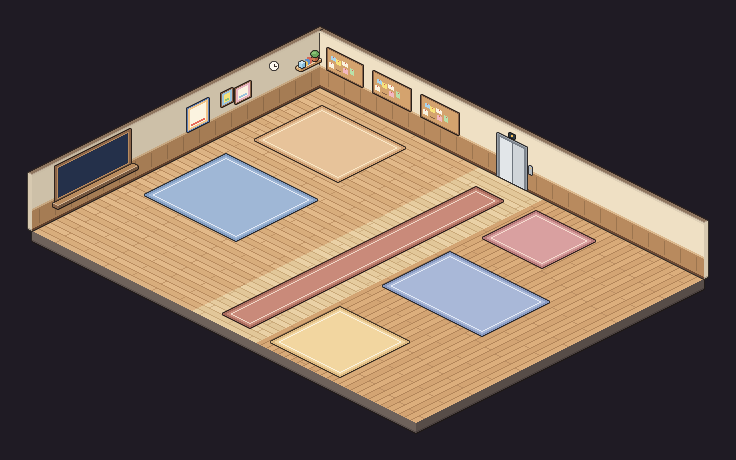
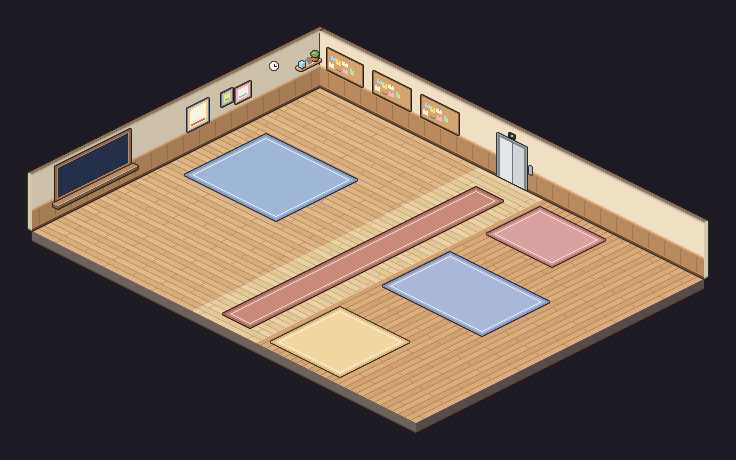
Casa: escritório no lado esquerdo e Claude FM na sala de mídias
- O lado esquerdo vira o Escritório: quadros, mesas dos agentes (mais ao centro),
  sua mesa, arquivos, impressora e canto do café; sai a sala de estar.
- A Claude FM vai para o canto de leitura da sala de mídias, com o sofá rosa de frente.
- A mesa da Escrita vai para trás, alinhada à beirada esquerda da última estante.

Changed region(s): [[0.3125, 0.213, 0.5625, 0.4565], [0.1875, 0.3652, 0.375, 0.5478], [0.6562, 0.4261, 0.8438, 0.5783]]

diff --git a/test/casa2d.test.ts b/test/casa2d.test.ts
@@ -5,7 +5,7 @@ import { homeSpot } from '../src/renderer/src/game/home-seats'
 import { casaPlan, zoneAt, type CasaAct, type CasaLayout } from '../src/renderer/src/world2d/casa'
 import { depthSort } from '../src/renderer/src/world2d/depth'
 import { actAt } from '../src/renderer/src/world2d/hit'
-import { artToScreen, headingOf } from '../src/renderer/src/world2d/iso'
+import { artToScreen } from '../src/renderer/src/world2d/iso'
 import { grid2d } from '../src/renderer/src/world2d/layout'
 import { recolour, recolourMap, type Palette } from '../src/renderer/src/world2d/skins'
 import { LUNA_VARIANT } from '../src/renderer/src/world2d/sprites'
@@ -143,9 +143,9 @@ describe('plano da Casa 2D', () => {
     expect(new Set(spots.map((s) => `${s.point.x},${s.point.z}`)).size).toBe(3)
     // the residents fill the desks in order after Luna's
     expect(spots.map((s) => s.tile)).toEqual([
+      [6, 6],
+      [3, 8],
       [6, 8],
-      [3, 10],
-      [6, 10],
     ])
     // the same seat number always gives the same chair
     expect(homeSpot(grid, 2, plan)).toEqual(spots[2])
@@ -198,7 +198,7 @@ describe('clique na Casa 2D', () => {
   it('o chão vazio e os móveis sem ação não abrem nada', () => {
     const floor = artToScreen(CASA.origin, 340, 200)
     expect(actAt(items, CASA.hot, floor, solid)).toBeNull()
-    const sofa = CASA.static.find((s) => s.fp[0] === 62 && s.fp[1] === 28)!
+    const sofa = CASA.static.find((s) => s.fp[0] === 262 && s.fp[1] === 10)!
     expect(actAt(items, CASA.hot, { x: sofa.x + 10, y: sofa.y + 10 }, solid)).toBeNull()
   })
 

diff --git a/scripts/pixel-art/scene_casa2.py b/scripts/pixel-art/scene_casa2.py
@@ -25,13 +25,13 @@ BOARDS = [(8, 42, 'agenda', 'Agenda'), (54, 90, 'goals', 'Objetivos'), (102, 138
 # the four work desks (x, y; each 14 x 30, the sitter east of it looking -x); Luna takes the first,
 # then the residents fill them in order
 DESK_D = 30
-DESKS = [(30, 124), (76, 124), (30, 160), (76, 160)]
+DESKS = [(30, 84), (76, 84), (30, 120), (76, 120)]
 # the chair of each desk: x, y, the way the sitter looks
 TABLE_SEATS = [(x + 16, y + 10, '-x') for x, y in DESKS]
 # the rug under the desks: x0, y0, x1, y1
-DESK_RUG = (20, 114, 112, 196)
+DESK_RUG = (20, 74, 112, 156)
 # the bounding box of the desks (x, y, w, d): its middle is where the group looks at
-TABLE = (30, 124, 82, 66)
+TABLE = (30, 84, 82, 66)
 # who sits where in the preview (variant, or None for an empty chair)
 TABLE_PEOPLE = [6, 1, 2, None]
 SEAT_ORDER = [0, 1, 2, 3]
@@ -39,31 +39,35 @@ SEAT_ORDER = [0, 1, 2, 3]
 VOCE_DESK = (70, 266, 36)
 # footprints of the clickable furniture (export_app.py tags the items with these)
 SKULL = (146, 20, 154, 28)
-RADIO = (2, 30, 14, 64)
+# Claude FM: in the media room's reading corner, against the half wall, the pink sofa facing it
+RADIO = (228, 12, 240, 46)
+READ_SOFA = (262, 10, 276, 50)
 # the 'Rotinas de agentes' board hangs on the west wall of Luna's table room (plane x=0): y0, y1, z0, z1, clear of the window
 TOTEM_WALL = (168, 184, 26, 42)
 TOTEM = (0, 168, 2, 184)
 # the window on the west wall by the user's corner: y0, y1, z0, z1 (the glass is drawn by the app: morning, day, evening, night)
 WINDOW = (192, 262, 20, 50)
-WRITING = (306, 14, 322, 50)
+# the writing desk: in front of the last bookshelf, its west edge on the shelf's
+WRITING = (352, 10, 368, 46)
 FILMS_TV = (228, 120, 238, 146)
 ARCADES = [(228, 216, 238, 228), (228, 232, 238, 244), (228, 248, 238, 260)]
 SHELVES = [(x, 0, x + 28, 8) for x in range(232, 380, 30)]
 # where idle agents of the Casa sit or play: x, y (art units), the point they look at, kind
 HANG = [
-    (69, 38, (8, 40), 'sit'), (69, 58, (8, 50), 'sit'),           # sofa of the sala de estar
+    (269, 20, (234, 29), 'sit'), (269, 40, (234, 29), 'sit'),      # reading sofa, facing the Claude FM
     (299, 124, (233, 133), 'sit'), (299, 144, (233, 133), 'sit'),  # Filmes sofa, facing the TV
     (246, 222, (233, 222), 'play'), (246, 238, (233, 238), 'play'), (246, 254, (233, 254), 'play'),  # arcades
-    (258, 238, (233, 238), 'stand'), (284, 40, (244, 36), 'stand'),
+    (258, 238, (233, 238), 'stand'), (250, 56, (234, 29), 'stand'),
+    (26, 150, (9, 149), 'stand'),                                  # coffee corner of the office
 ]
 # names shown when the pointer is over a part of the floor (tiles: x0, y0, x1, y1)
 ZONES = [
-    ('Mesa da Luna', (0, 6, 10, 13)),
-    ('Sala de estar', (0, 0, 10, 6)),
+    ('Mesa da Luna', (0, 4, 10, 10)),
     ('Sua mesa', (0, 13, 10, 18)),
+    ('Escritório', (0, 0, 10, 18)),
     ('Entrada', (10, 0, 14, 18)),
-    ('Livros', (14, 0, 19, 5)),
-    ('Escrita', (19, 0, 24, 5)),
+    ('Livros', (14, 0, 21, 5)),
+    ('Escrita', (21, 0, 24, 5)),
     ('Filmes', (14, 5, 24, 12)),
     ('Jogos', (14, 12, 24, 18)),
 ]
@@ -101,8 +105,7 @@ def shell(L):
     F.rug(L, 178, 22, 206, 276, H('c98a7a'), H('a86a5c'), H('f1d8c8'))
     for a_, b_, _act, _n in BOARDS:
         board(L, a_, b_)
-    F.rug(L, 20, 18, 104, 86, H('e7c39a'), H('cf9f72'), H('fbe9c8'))
-    # wall decor (west wall of the sala de estar)
+    # wall decor (west wall of the office)
     G.wall_shelf_x(L, 0, 4, 24, 30)
     window_frame(L)
     G.clock_x(L, 0, 46, 44)
@@ -110,7 +113,7 @@ def shell(L):
     F.frame_x(L, 0, 88, 98, 30, 42, art=('9cc4dc', 'f6e27a', '8cc477'))
     F.frame_x(L, 0, 112, 132, 22, 44, art=('f2c58a', 'fbf3e0', 'e86a5a'), fr='5f7fb4')
     F.rug(L, *DESK_RUG, H('9fb7d6'), H('809cc2'), H('e4eaf6'))
-    F.rug(L, 232, 16, 292, 70, H('d9a0a0'), H('b87a7a'), H('f6dcd0'))
+    F.rug(L, 230, 10, 296, 64, H('d9a0a0'), H('b87a7a'), H('f6dcd0'))
     F.rug(L, 230, 100, 330, 168, H('a9b8d8'), H('8698c0'), H('e4eaf6'))
     F.rug(L, 230, 210, 300, 280, H('f2d6a0'), H('dcb880'), H('fbf3e0'))
 
@@ -127,15 +130,17 @@ def half_wall(sc, i):
     sc.wy(0, D, x, doors=doors)
 
 
-def sala(sc):
+def office(sc):
+    """the office's furniture besides the desks: files and printer on the west wall, coffee corner, the skull."""
     L, add = sc.L, sc.add
     add(SKULL, lambda: G.skull_stand(L, *SKULL[:2]), True)
-    add(RADIO, lambda: G.radio_tv(L, *RADIO[:2]), True)
-    add((30, 40, 42, 54), lambda: G.low_table(L, 30, 40, 12, 14), True)
-    add((62, 28, 76, 68), lambda: F.sofa_mx(L, 62, 28, T('e7b3a6', 'd39486', 'b87a6d'), 40), True)
-    add((96, 22, 102, 28), lambda: F.lamp(L, 96, 22), True)
-    add((30, 20, 42, 32), lambda: G.armchair(L, 30, 20, '+y', T('b9d3b0', '9cbf93', '7fa277')), True)
-    add((4, 110, 14, 120), lambda: F.plant(L, 4, 110, seed=5), True)
+    add((2, 28, 12, 40), lambda: F.file_cabinet(L, 2, 28, '+x'), True)
+    add((2, 41, 12, 53), lambda: F.file_cabinet(L, 2, 41, '+x'), True)
+    add((2, 56, 16, 68), lambda: F.printer(L, 2, 56), True)
+    add((4, 80, 14, 90), lambda: F.plant(L, 4, 80, seed=5), True)
+    add((2, 140, 16, 158), lambda: F.coffee_machine(L, 2, 140), True)
+    add((4, 159, 12, 167), lambda: F.water_cooler(L, 4, 159), True)
+    add((130, 22, 140, 32), lambda: F.plant(L, 130, 22, big=False, seed=4), True)
 
 
 # the work desks: graphite desk, green chair
@@ -184,14 +189,17 @@ def media(sc, people=True):
     L, add = sc.L, sc.add
     for fp in SHELVES:
         add(fp, lambda x=fp[0]: F.bookshelf(L, x, 0, 28), True)
-    add((238, 30, 250, 42), lambda: G.armchair(L, 238, 30, '+x', T('d9a0a0', 'c08080', 'a06868')), True)
-    add((258, 32, 268, 42), lambda: G.low_table(L, 258, 32, 10, 10), True)
-    add((274, 20, 280, 26), lambda: F.lamp(L, 274, 20), True)
-    # Escrita, between the shelves and the pink reading corner
-    add(WRITING, lambda: (F.desk(L, 306, 14, 16, 36), G.typewriter(L, 309, 18, 12),
-                          G.notebook(L, 310, 30, 12), F.mug(L, 312, 42, 12)), True)
-    add((326, 22, 334, 30), lambda: F.wood_chair(L, 326, 22, '-x'))
-    add((310, 56, 316, 62), lambda: F.lamp(L, 310, 56), True)
+    # reading corner: the Claude FM on the half wall, a low table, the pink sofa facing it
+    add(RADIO, lambda: G.radio_tv(L, *RADIO[:2]), True)
+    add((246, 22, 256, 34), lambda: G.low_table(L, 246, 22, 10, 12), True)
+    add(READ_SOFA, lambda: F.sofa_mx(L, *READ_SOFA[:2], T('e7b3a6', 'd39486', 'b87a6d'), 40), True)
+    add((282, 12, 288, 18), lambda: F.lamp(L, 282, 12), True)
+    # Escrita: in front of the last bookshelf
+    wx, wy = WRITING[:2]
+    add(WRITING, lambda: (F.desk(L, wx, wy, 16, 36), G.typewriter(L, wx + 3, wy + 4, 12),
+                          G.notebook(L, wx + 4, wy + 16, 12), F.mug(L, wx + 6, wy + 28, 12)), True)
+    add((wx + 20, wy + 8, wx + 28, wy + 16), lambda: F.wood_chair(L, wx + 20, wy + 8, '-x'))
+    add((wx + 22, wy + 32, wx + 28, wy + 38), lambda: F.lamp(L, wx + 22, wy + 32), True)
     # Filmes: TV on the west wall, low table, sofa facing the TV, one rug
     add(FILMS_TV, lambda: F.tv(L, *FILMS_TV[:2]), True)
     add((258, 126, 270, 140), lambda: G.low_table(L, 258, 126, 12, 14), True)
@@ -216,7 +224,7 @@ def build():
     entrance(sc)
     sc.stand(sprite(4, 'FL', 'walkA'), 192, 140)
     half_wall(sc, 0)
-    sala(sc)
+    office(sc)
     luna_table(sc)
     x, y, w = VOCE_DESK
     ws_front_y(sc, x, y, 0, 'green', w=w, head='voce')
@@ -229,15 +237,15 @@ def build():
     for a_, b_, _act, n in BOARDS:
         sc.label(n, (a_ + b_) / 2, 0, WALL_H + 2, dy=-6)
     sc.label('Caveira', 150, 24, 36)
-    sc.label('Claude FM', 8, 47, 34)
-    sc.label('Sala de estar', 106, 70)
-    sc.label('Mesa da Luna', 124, 150)
+    sc.label('Claude FM', 234, 29, 34)
+    sc.label('Escritório', 124, 40)
+    sc.label('Mesa da Luna', 124, 130)
     mx, my = L.P(78, 270, 34)
     sc.labels.append(('Novo agente', mx + 2, int(my) - 18))
     vx, vy = L.P(98, 262, 0)
     sc.labels.append(('Você', vx + 22, int(vy) - 6))
     sc.label('Livros', 306, 0, WALL_H + 2, dy=-6)
-    sc.label('Escrita', 330, 66)
+    sc.label('Escrita', 366, 60)
     sc.label('Filmes', 278, 174)
     sc.label('Jogos', 270, 284)
     sc.label('Sala de mídias', 262, 96)

diff --git a/scripts/pixel-art/export_app.py b/scripts/pixel-art/export_app.py
@@ -413,7 +413,7 @@ def casa(L, place, items, seat):
     C.entrance(sc)
     C.half_wall(sc, 0)
     C.half_wall(sc, 1)
-    C.sala(sc)
+    C.office(sc)
     for i, (dx, dy) in enumerate(C.DESKS):
         sc.add((dx, dy, dx + 14, dy + C.DESK_D), lambda dx=dx, dy=dy, i=i: C.work_desk(L, dx, dy, i % 3), True)
     x, y, w = C.VOCE_DESK
@@ -441,8 +441,8 @@ def casa(L, place, items, seat):
     # tags (HTML) over the clickable things: art units x, y and height
     tags = {n: [(a + b) / 2, 0, 46] for a, b, _act, n in C.BOARDS}
     tags.update({
-        'Claude FM': [8, 47, 34], 'Caveira': [150, 24, 34], 'Rotinas de agentes': [2, 176, 46],
-        'Novo agente': [80, 270, 40], 'Livros': [306, 4, 44], 'Escrita': [314, 32, 30],
+        'Claude FM': [C.RADIO[0] + 6, C.RADIO[1] + 17, 34], 'Caveira': [150, 24, 34], 'Rotinas de agentes': [2, 176, 46],
+        'Novo agente': [80, 270, 40], 'Livros': [306, 4, 44], 'Escrita': [(C.WRITING[0] + C.WRITING[2]) / 2, C.WRITING[1] + 18, 30],
         'Filmes': [233, 133, 34], 'Jogos': [233, 238, 38], 'Gastos': [218, 0, 54], 'Alarme': [168, 0, 54],
     })
     # Luna's chair first, then the residents' in the order the approved art fills them
